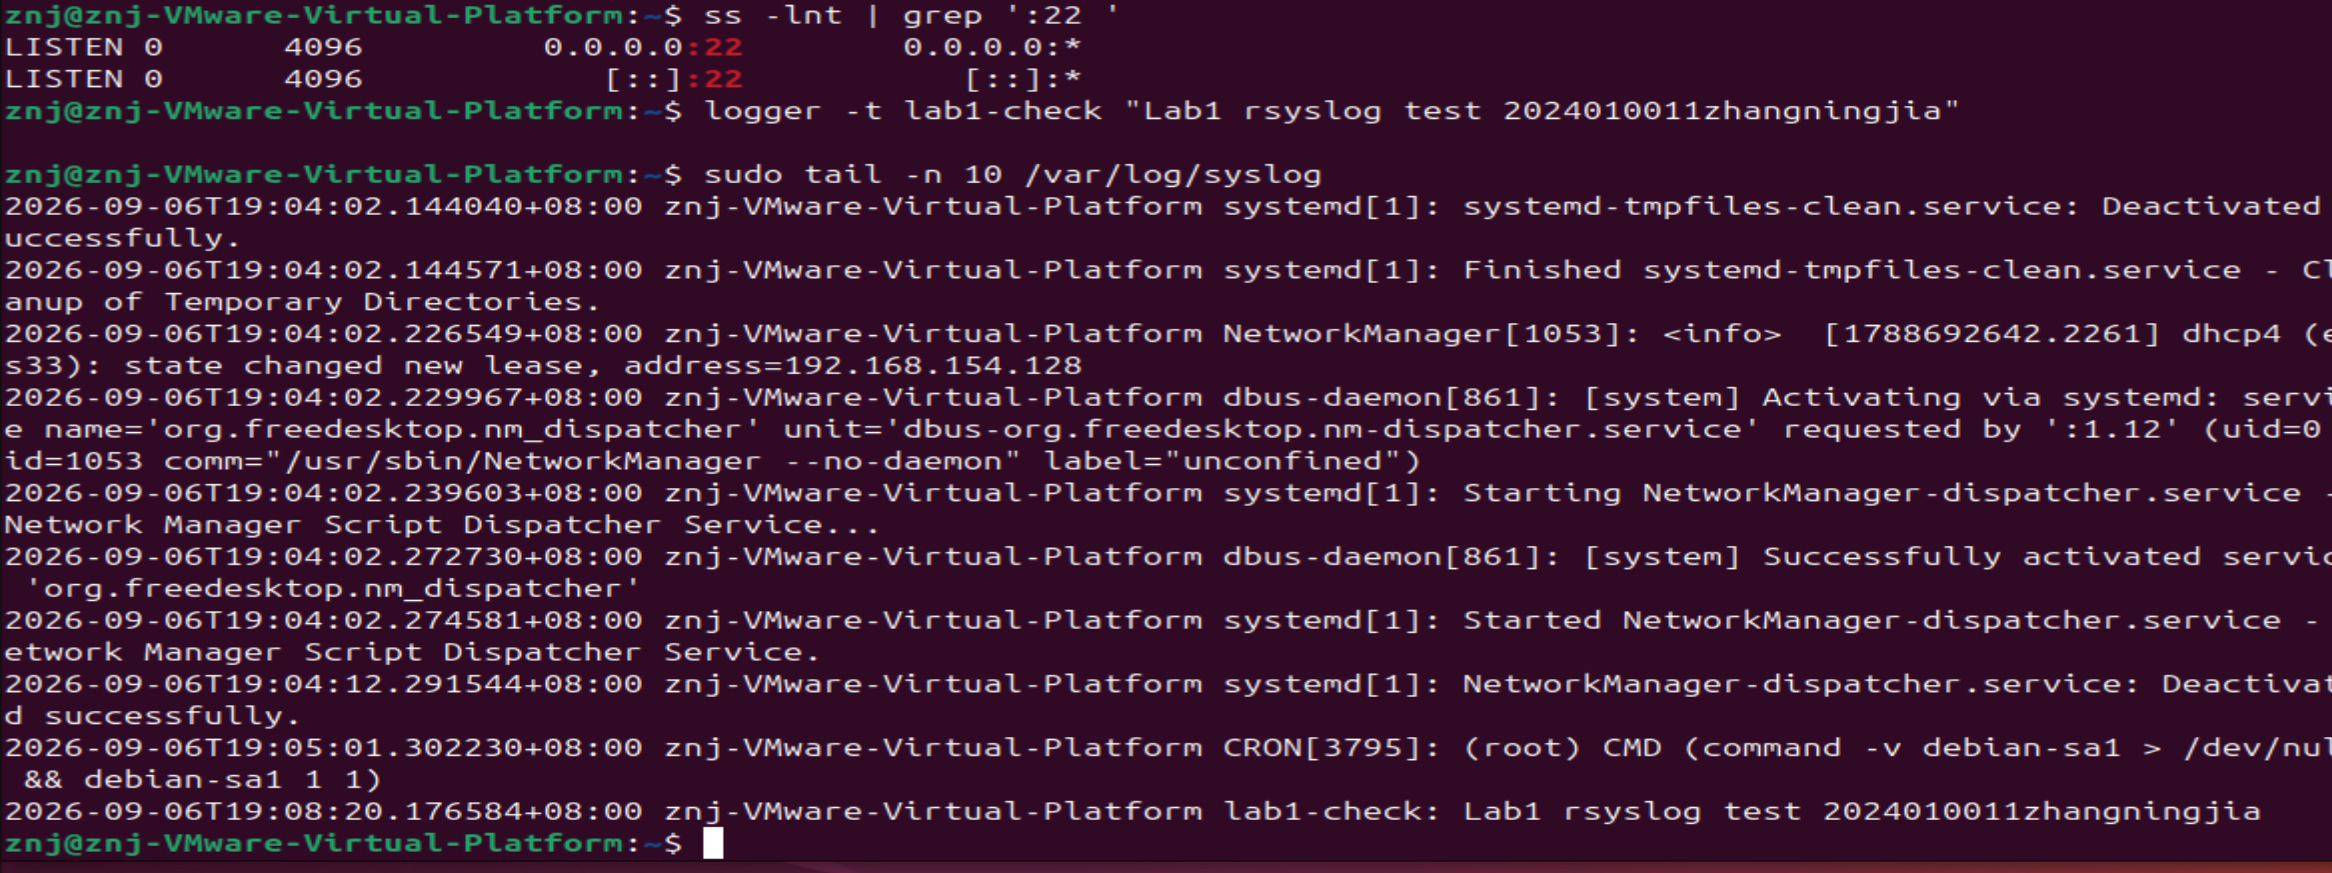
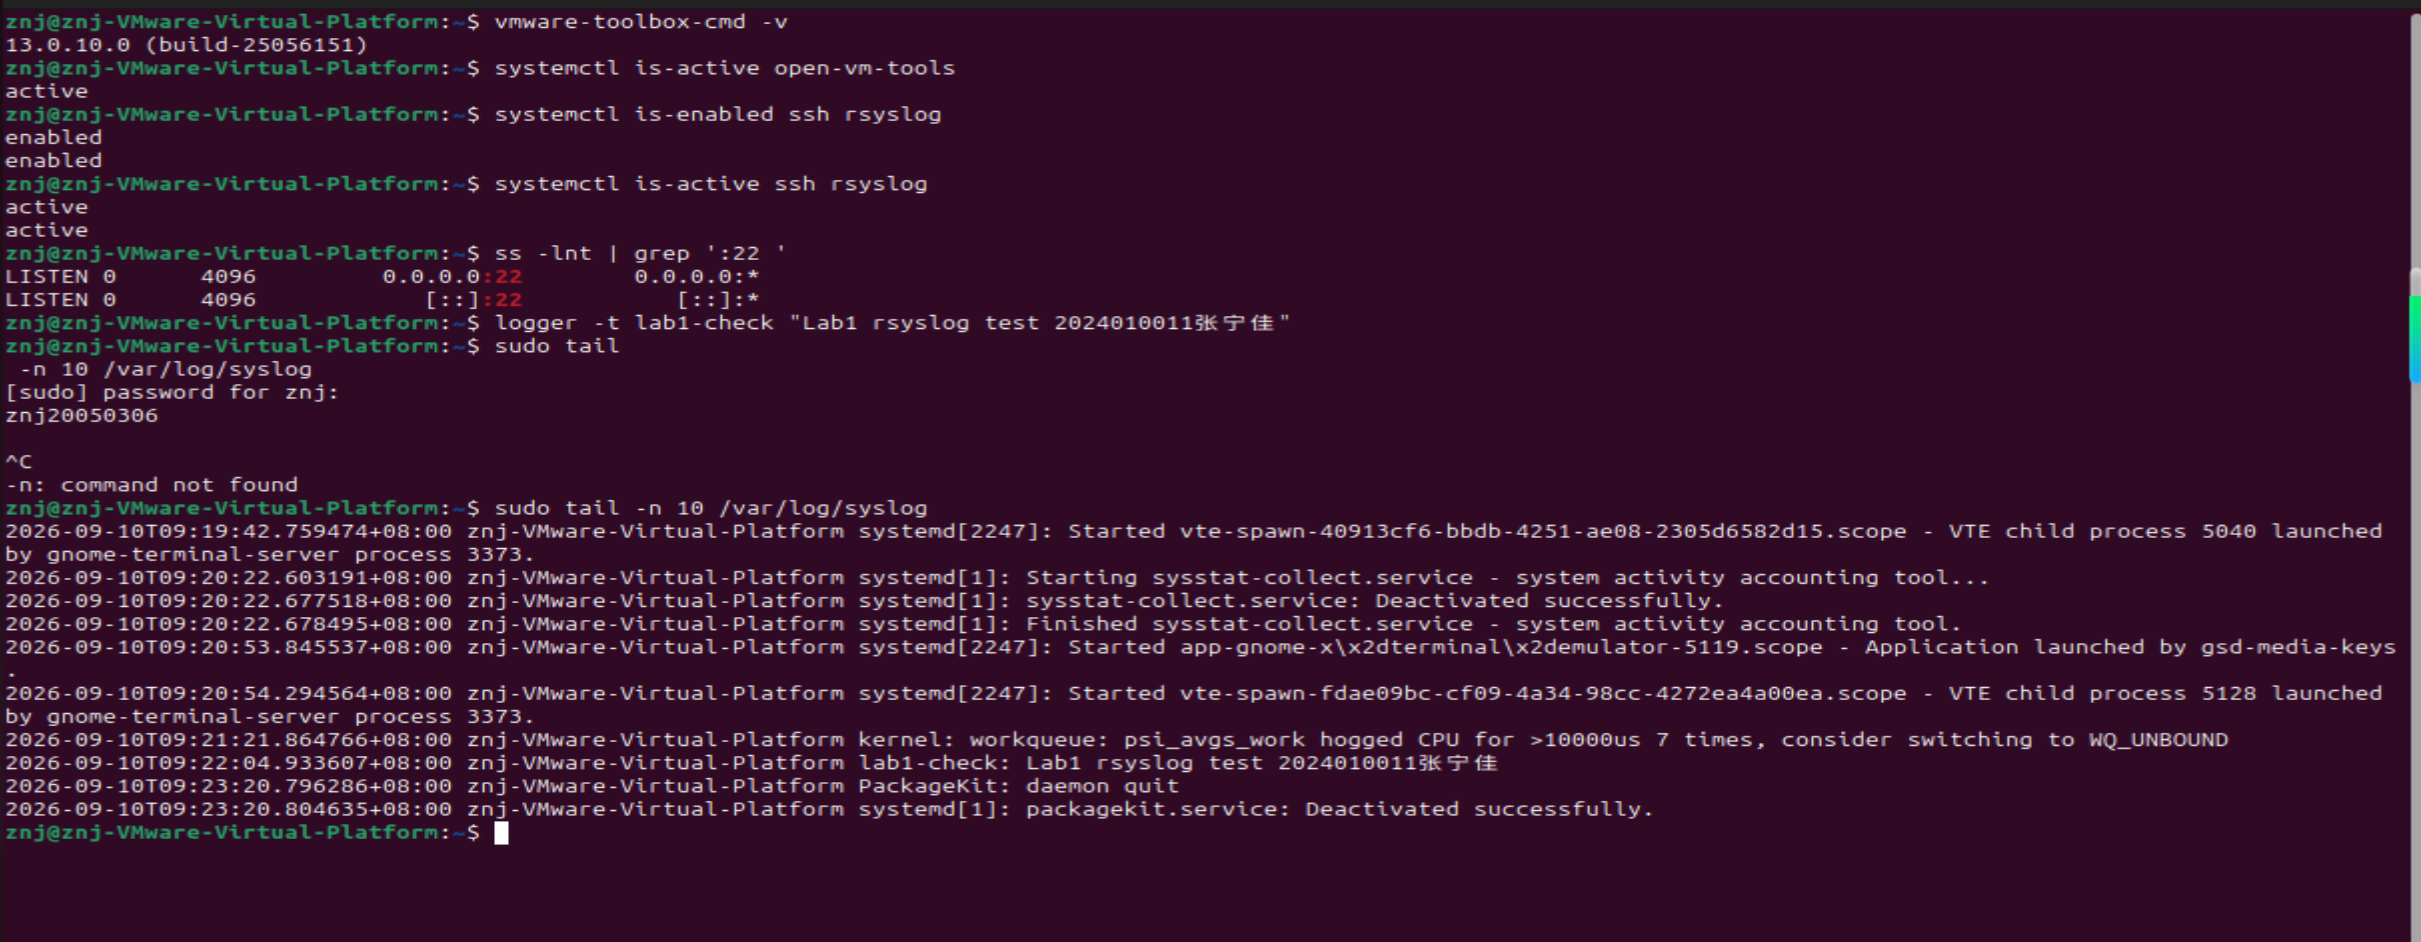
完成Lab1作业

Changed region(s): [[0.0, 0.0, 1.0, 1.0]]

diff --git a/2024010011张宁佳/Lab1/Lab1.md b/2024010011张宁佳/Lab1/Lab1.md
@@ -119,12 +119,12 @@ sudo apt update
 | 项目 | 你的填写内容 |
 | :--- | :--- |
 | 虚拟机 IP 地址 | 192.168.154.128 |
-| 网络模式 | NAT / 其他： |
+| 网络模式 | NAT / 其他：NAT |
 | ping `223.5.5.5` 是否成功 | 是|
 | ping `mirrors.tuna.tsinghua.edu.cn` 是否成功 | 是|
 | 使用的软件源镜像站 |mirrors.tuna.tsinghua.edu.cn |
 | `sudo apt update` 是否成功 | 是|
-| 联网是否合格 | |
+| 联网是否合格 |是 |
 
 ![虚拟机联网](imgs/lab1-network.png)
 
@@ -171,7 +171,7 @@ df -h /
 | 宿主机内存 / CPU 核心 / 存放盘剩余空间 | CPU8核，内存16G，磁盘剩余120G|
 | 选择的配置档位 | 课程推荐档  |
 | 虚拟 CPU 核心数 |2 |
-| 虚拟内存 |3.8Gi |
+| 虚拟内存 |6G|
 | 虚磁盘容量 | 40G|
 | 根分区可用空间 | 27G|
 | 资源分配是否符合对应档位 |是 |
@@ -267,17 +267,17 @@ sudo tail -n 10 /var/log/syslog
 
 | 验收项目 | 合格标准 | 你的结论 |
 | :--- | :--- | :--- |
-| VMware 版本 | VMware Workstation Pro 26H1 for Windows | |
-| Linux 版本 | Ubuntu 24.04 LTS Desktop amd64，安装介质为教师提供的 24.04.4 | |
-| 虚拟机联网 | 具有 IP 和默认路由，IP 联通与 DNS 解析正常 | |
-| 国内软件源 | 已换成国内镜像站，`sudo apt update` 成功 | |
-| CPU、内存、存储 | 至少 2 核、4GB、40GB，且与宿主机档位匹配 | |
-| VMware Tools、SSH、rsyslog | 软件包已安装，服务和功能检查通过 | |
+| VMware 版本 | VMware Workstation Pro 26H1 for Windows |VMware Workstation Pro 26H1 for Windows |
+| Linux 版本 | Ubuntu 24.04 LTS Desktop amd64，安装介质为教师提供的 24.04.4 |24.04.4 |
+| 虚拟机联网 | 具有 IP 和默认路由，IP 联通与 DNS 解析正常 |正常 |
+| 国内软件源 | 已换成国内镜像站，`sudo apt update` 成功 |成功 |
+| CPU、内存、存储 | 至少 2 核、4GB、40GB，且与宿主机档位匹配 | 是|
+| VMware Tools、SSH、rsyslog | 软件包已安装，服务和功能检查通过 |通过 |
 
 简要说明你遇到的问题、解决方法，以及当前环境是否可以继续完成后续实验：
 
 > 填写：
-
+可以完成后续实验
 ---
 
 ## 截图要求
